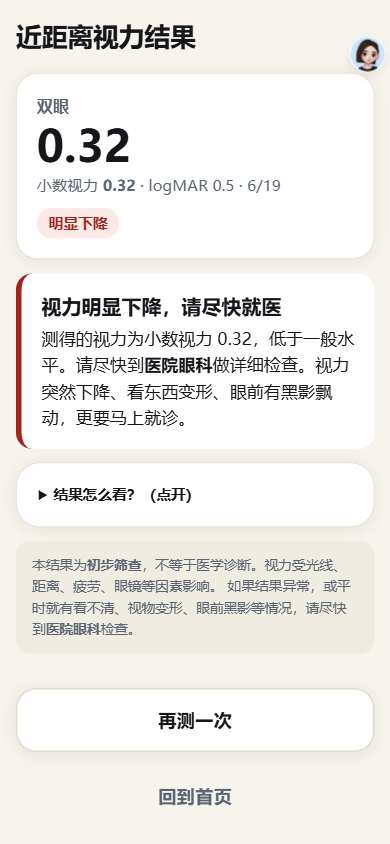
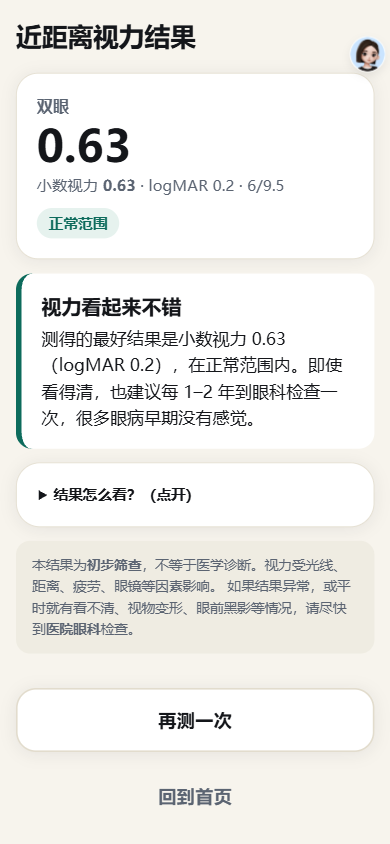
ui: 一体机横屏首页卡片撑满并居中；新增 shots/演示 一套演示图（12 张 + 3 张拼图）；v0.9.8

diff --git a/index.html b/index.html
@@ -79,7 +79,10 @@ li{margin:.35em 0}
 
 .cards{display:grid;grid-template-columns:1fr;gap:14px}
 @media (orientation:landscape) and (min-width:820px){
-  .cards{grid-template-columns:1fr 1fr}
+  /* 横屏（一体机）：两列、垂直居中、卡片加高且内容居中，避免大屏上一片空白 */
+  .cards{grid-template-columns:1fr 1fr;flex:1;align-content:center}
+  .cards .big-card{min-height:min(40vh,320px);justify-content:center}
+  .cards .big-card .meta{margin-top:14px}
 }
 .big-card{
   background:var(--card);border:2px solid var(--line);border-radius:26px;
@@ -574,7 +577,7 @@ const PER_LEVEL = 5, PASS_NEED = 4;
 // 连续语音/手势作答后，下一题前的硬缓冲（毫秒）
 const ANSWER_GAP_MS = 1000;
 // 构建号：改版本只改这一行（欢迎页 / 设置页 / 手势试音页 / 控制台都读它）
-const BUILD = 'v0.9.7 · 2026-11-08';
+const BUILD = 'v0.9.8 · 2026-11-08';
 // 视标 E 的 5 个笔画（viewBox 0 0 5 5，开口朝右）
 const E_PATH = 'M0 0H5V1H1V2H4V3H1V4H5V5H0Z';
 const DIRS = ['up','right','down','left'];

diff --git a/docs/版本史.md b/docs/版本史.md
@@ -146,6 +146,25 @@
 顺手把版本号收敛成**一个常量** `const BUILD`，欢迎页 / 设置页 / 手势试音页通过 `data-build` 填充，
 控制台打一行 `[vision-screening] v0.9.7 · 2026-11-08` —— 以前同一串版本号在源码里硬编码 5 处，改一次容易漏。
 
+### v0.9.8（17:50）一体机横屏排版 + 一套演示图
+
+给老师做演示图时发现：横屏首页在 1366×768 上只有两张 150 px 高的小卡片挤在顶部，
+中间一大片空白，看着像没做完。改法是**只动横屏媒体查询**，手机竖屏一行没改：
+
+```css
+@media (orientation:landscape) and (min-width:820px){
+  .cards{grid-template-columns:1fr 1fr;flex:1;align-content:center}
+  .cards .big-card{min-height:min(40vh,320px);justify-content:center}
+  .cards .big-card .meta{margin-top:14px}
+}
+```
+
+踩了一个 CSS 顺序坑：媒体查询写在 `.big-card` 基础规则**之前**，同优先级被后面的 `min-height:150px`
+覆盖掉，改了半天没反应。最后用 `.cards .big-card` 提高选择器优先级解决。
+
+另外新增 `shots/演示/`：12 张（手机竖屏 10 + 一体机横屏 2）+ 3 张拼图总览，供拿去给老师看。
+其中结果页用「模拟被测者 logMAR 0.05」跑出 **0.63 · 正常范围**，避免演示图里全是红色警告。
+
 ---
 
 ## 版本号对照（文档里常被引用）
@@ -158,4 +177,5 @@
 | v0.9.4 | 手势骨架映射 v2 + 全站可见的构建号 |
 | v0.9.5 | 手势预览改 contain 不裁切 + 预览框跟随画面比例 |
 | v0.9.6 | 做减法（删 PWA / 对角线估算 / 死代码 / 过期计划） |
-| **v0.9.7** | **当前版本：修完 3 条 P0 + 删界面自我说明 + 版本号收敛成一处** |
+| v0.9.7 | 修完 3 条 P0 + 删界面自我说明 + 版本号收敛成一处 |
+| **v0.9.8** | **当前版本：一体机横屏排版 + 演示图一套** |

diff --git a/README.md b/README.md
@@ -3,7 +3,7 @@
 一个**纯静态网页**的视力筛查工具：手机竖屏、安卓一体机横屏都能用，主要服务老年人群。
 算法参考 WHO / CERA 的 **WHOeyes**（tumbling E + 阶梯法），逆向过程见 [`docs/WHOeyes-逆向分析.md`](docs/WHOeyes-逆向分析.md)。
 
-**当前版本 `v0.9.7`** · 2026-11-08 · 版本号同时显示在欢迎页、设置页和手势试音页。
+**当前版本 `v0.9.8`** · 2026-11-08 · 版本号同时显示在欢迎页、设置页和手势试音页。
 
 > 它是**初步筛查工具**，不是医疗器械、不做诊断。用途是「这个人该不该去医院查」，不是「这个人视力多少」。
 
@@ -32,7 +32,7 @@
 |---|---|---|
 | ![历史](shots/08-history.png) | | |
 
-> 截图统一按 `v0.9.7` 重新截过（手机竖屏 390×844 @3x）。图里的版本号和线上页面一致，
+> 截图统一按 `v0.9.8` 重新截过（手机竖屏 390×844 @3x）。图里的版本号和线上页面一致，
 > 对不上就说明你看到的是旧缓存。
 
 ## 功能总览
@@ -162,6 +162,7 @@ vision-screening/
 | [`docs/AI模块验收.md`](docs/AI模块验收.md) | 想核对语音 / 手势的测试数字与样本 |
 | [`docs/版本史.md`](docs/版本史.md) | 想知道每个版本改了什么、踩过哪些坑 |
 | [`docs/实验归档/`](docs/实验归档/) | 想核对语音 / 手势的原始实验报告（原实验目录已删） |
+| [`shots/演示/`](shots/演示/) | 要发给别人看的整套截图（12 张 + 3 张拼图总览） |
 | [`docs/路线图.md`](docs/路线图.md) | 想知道接下来做什么、还差什么 |
 | [`voice/README.md`](voice/README.md) · [`gesture/README.md`](gesture/README.md) | 只关心某个 AI 模块怎么接 |
 | [`AGENTS.md`](AGENTS.md) | 给下一次接手这个仓库的 AI 看的硬规则 |
